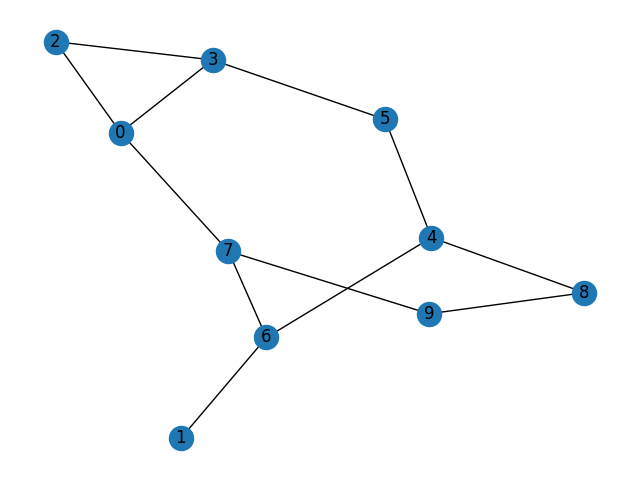
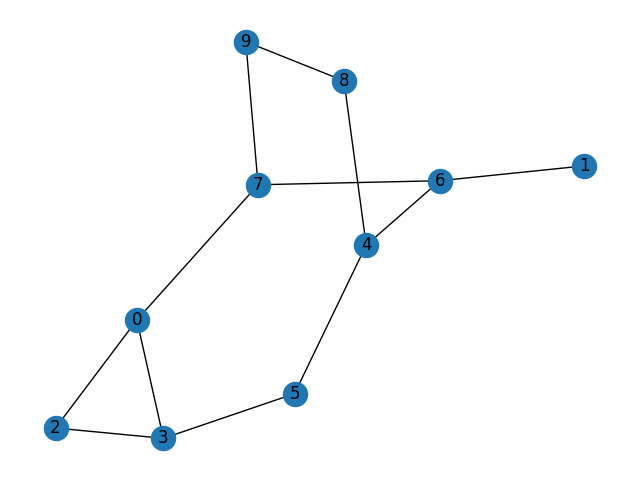
feat: implementando busca em largura

diff --git a/graph.py b/graph.py
@@ -1,12 +1,12 @@
 class Graph:
     def __init__(self, matrix):
         # Cria uma lista de adjacência para armazenar o grafo
-        self.adjency_list = self.get_adjency_list(matrix)
+        self.vertex_set = self.get_adjency_list(matrix)
+        self.vertex_set_indexes = list(range(0, 10))
         self.edge_set = self.get_edge_set()
-        self.vertex_set = list(range(0, 10))
 
     def get_adjency_list(self, matrix):
-        adjency_list = []
+        adjacency_list = []
 
         for line in matrix:
             vertex_index = matrix.index(line)
@@ -16,33 +16,54 @@ class Graph:
             for vertex in line:
                 if vertex == '1':
                     # Se ha adjacência, o vértice adjacente é adicionado à lista de adjacência do vértice atual
-                    current_vertex.adjency.append(index)
+                    current_vertex.adjacency.append(index)
 
                 index += 1
 
-            adjency_list.append(current_vertex)
+            adjacency_list.append(current_vertex)
 
-        return adjency_list
+        self.vertex_set = adjacency_list
+
+        for vertex in adjacency_list:
+            for i in range(len(vertex.adjacency)):
+                neighbor = self.get_vertex(vertex.adjacency[i])
+                vertex.adjacency[i] = neighbor
+
+        return adjacency_list
+
+    def get_vertex(self, key):
+        for vertex in self.vertex_set:
+            if vertex.index == key:
+                return vertex
+        
+        return None
 
     def print_adjency_list(self):
-        for vertex in self.adjency_list:
-            print(f"V{vertex.index} = {[adjacent for adjacent in vertex.adjency]}")
+        for vertex in self.vertex_set:
+            print(f"V{vertex.index} = {[adjacent.index for adjacent in vertex.adjacency]}")
 
     def get_edge_set(self):
         edge_set = []
 
-        for vertex in self.adjency_list:
-            for adjacent in vertex.adjency:
+        for vertex in self.vertex_set:
+            for adjacent in vertex.adjacency:
                  
                 exists = False
+
                 for item in edge_set:
-                    if vertex.index in item and adjacent in item:
+                    item = (item.v1, item.v2)
+                    if vertex in item and adjacent in item:
                         exists = True
 
-                edge = (vertex.index, adjacent)
-
                 if not exists:
+                    edge = Edge(vertex, adjacent)
                     edge_set.append(edge)
+
+
+        self.edge_set_literal = []
+        for edge in edge_set:
+            aux = (edge.v1.index, edge.v2.index)
+            self.edge_set_literal.append(aux)
 
         return edge_set
 
@@ -50,9 +71,48 @@ class Edge:
     def __init__(self, v1, v2):
         self.v1 = v1
         self.v2 = v2
+        self.visited = False
 
+    def visit(self):
+        self.visited = True
+
+    def set_type(self):
+        # aa = aresta de árvore
+        # ai = aresta irmão
+        # at = aresta tio
+        # ap = aresta primo
+
+        if self.v1.parent == self.v2 or self.v2.parent == self.v1:
+            self.edge_type = "aa"
+        else:
+            if self.v1.level() == self.v2.level():
+                if self.v1.parent != self.v2.parent:
+                    self.edge_type = "ap"
+                else: self.edge_type = "ai" 
+            elif self.v1.level() == (self.v2.level()-1) or (self.v1.level()-1) == self.v2.level():
+                self.edge_type = "at"
+
+ 
          
 class Vertex:
     def __init__(self, index):
         self.index = index
-        self.adjency = []
+        self.adjacency = []
+        self.marked = False
+        self.parent = None
+
+    def mark(self):
+        self.marked = True
+
+    def level(self):
+        level = 1
+        current = self
+
+        while current.parent != None:
+            # print(f'{current.index}. {current.parent}')
+            current = current.parent
+            level += 1
+
+        return level
+
+

diff --git a/bfs.py b/bfs.py
@@ -1,0 +1,41 @@
+class BFS:
+    def __init__(self, graph):
+        self.bsf_vertex_set = graph.vertex_set
+        self.bsf_edge_set = graph.edge_set 
+        self.queue = []
+
+    def get_edge(self, v1, v2):
+        for edge in self.bsf_edge_set:
+            if edge.v1 == v1 and edge.v2 == v2:
+                return edge
+            elif edge.v2 == v1 and edge.v1 == v2:
+                return edge
+
+    def breadth_first_search(self, root):
+        current = self.bsf_vertex_set[root]
+        self.queue.append(current)
+
+        while self.queue:
+            current = self.queue[0]
+            current.mark()
+
+            for adjacent in current.adjacency:
+                if not adjacent.marked:
+                    edge = self.get_edge(current, adjacent)
+                    edge.visit()
+
+                    adjacent.mark()
+                    adjacent.parent = current
+
+                    self.queue.append(adjacent)
+                else: 
+                    if adjacent in self.queue:
+                        edge = self.get_edge(current, adjacent)
+                        edge.visit()
+            
+            self.queue.pop(0)
+
+    def get_edge_types(self):
+        for edge in self.bsf_edge_set:
+            edge.set_type()
+

diff --git a/main.py b/main.py
@@ -1,3 +1,4 @@
+from bfs import *
 from utils import *
 import networkx as nx
 from graph import *
@@ -22,19 +23,21 @@ def main():
 
     resulted_graph = Graph(adjency_matrix)
     print(resulted_graph.print_adjency_list())
-    print(resulted_graph.edge_set)
-    print(resulted_graph.vertex_set)
+    bfs = BFS(resulted_graph)
+    bfs.breadth_first_search(0)
+    bfs.get_edge_types()
 
+    for edge in bfs.bsf_edge_set:
+        print(f'Aresta ({edge.v1.index}, {edge.v2.index}), tipo {edge.edge_type}')
+
+    # Plotando o grafo
     G = nx.Graph()
 
-    G.add_nodes_from(resulted_graph.vertex_set)
-    G.add_edges_from(resulted_graph.edge_set)
+    G.add_nodes_from(resulted_graph.vertex_set_indexes)
+    G.add_edges_from(resulted_graph.edge_set_literal)
 
     nx.draw(G, with_labels=True)
     plt.savefig("graph.png") 
-    
-
-
 
 if __name__=='__main__':
     main()
